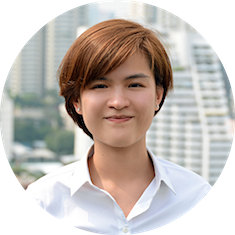
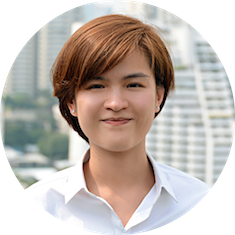
update images

diff --git a/index.html b/index.html
@@ -212,7 +212,7 @@
       <div class='col-sm-3'>
         <div class='member'>
           <div class='member-image'>
-            <img alt='Nat' class='img-responsive' src='/assets/team/nat_cir.png?cb=6885c2c59ea2ba0b15c08923219d1356'>
+            <img alt='Nat' class='img-responsive' src='/assets/team/nat_cir.png?cb=b889fc6d16f466c04da0f7a61d3ba59c'>
             <div class='member-overlay'>
               <p>Marketing</p>
             </div>
